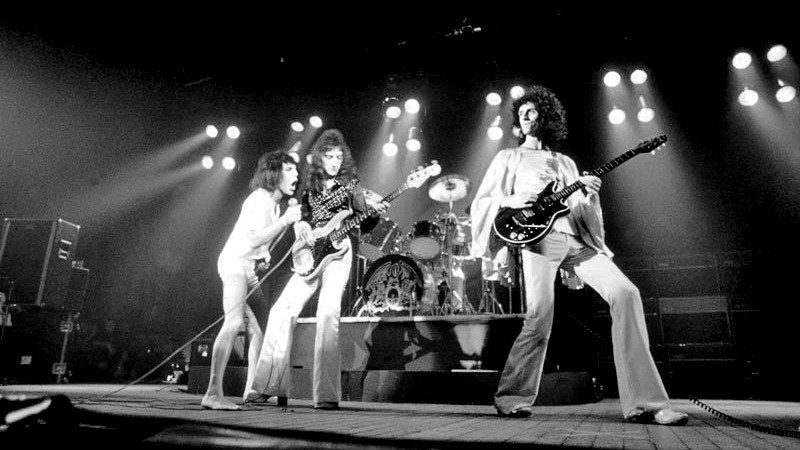
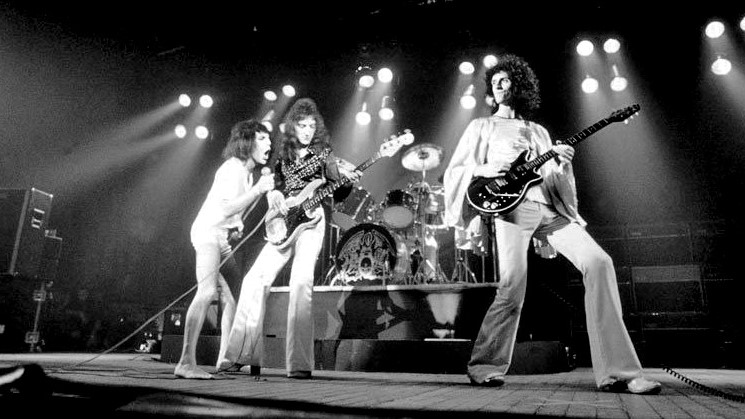
thirteen commit

diff --git a/docs/index.html b/docs/index.html
@@ -48,7 +48,7 @@
       <img class="d-block w-100" src="img/queen-band-early.jpg" alt="First slide">
     </div>
     <div class="carousel-item">
-      <img class="d-block w-100" src="img/queen-band-live.jpg" alt="Second slide">
+      <img class="d-block w-100" src="img/queen-live-on-stage.jpg" alt="Second slide">
     </div>
     <div class="carousel-item">
       <img class="d-block w-100" src="img/queen-band-portrait.jpg" text="Third slide" alt="Third slide">
